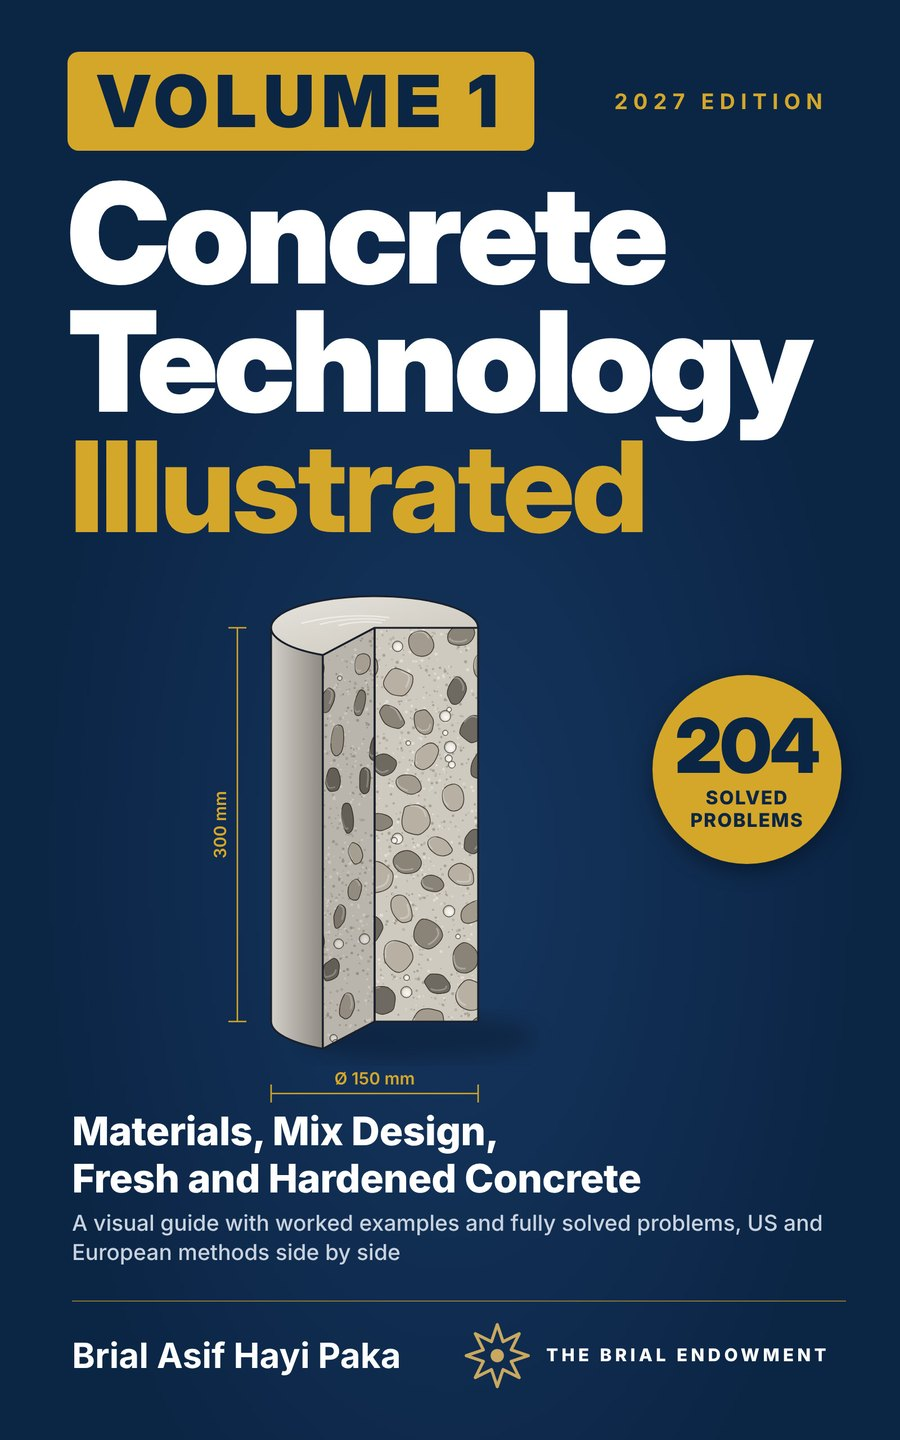
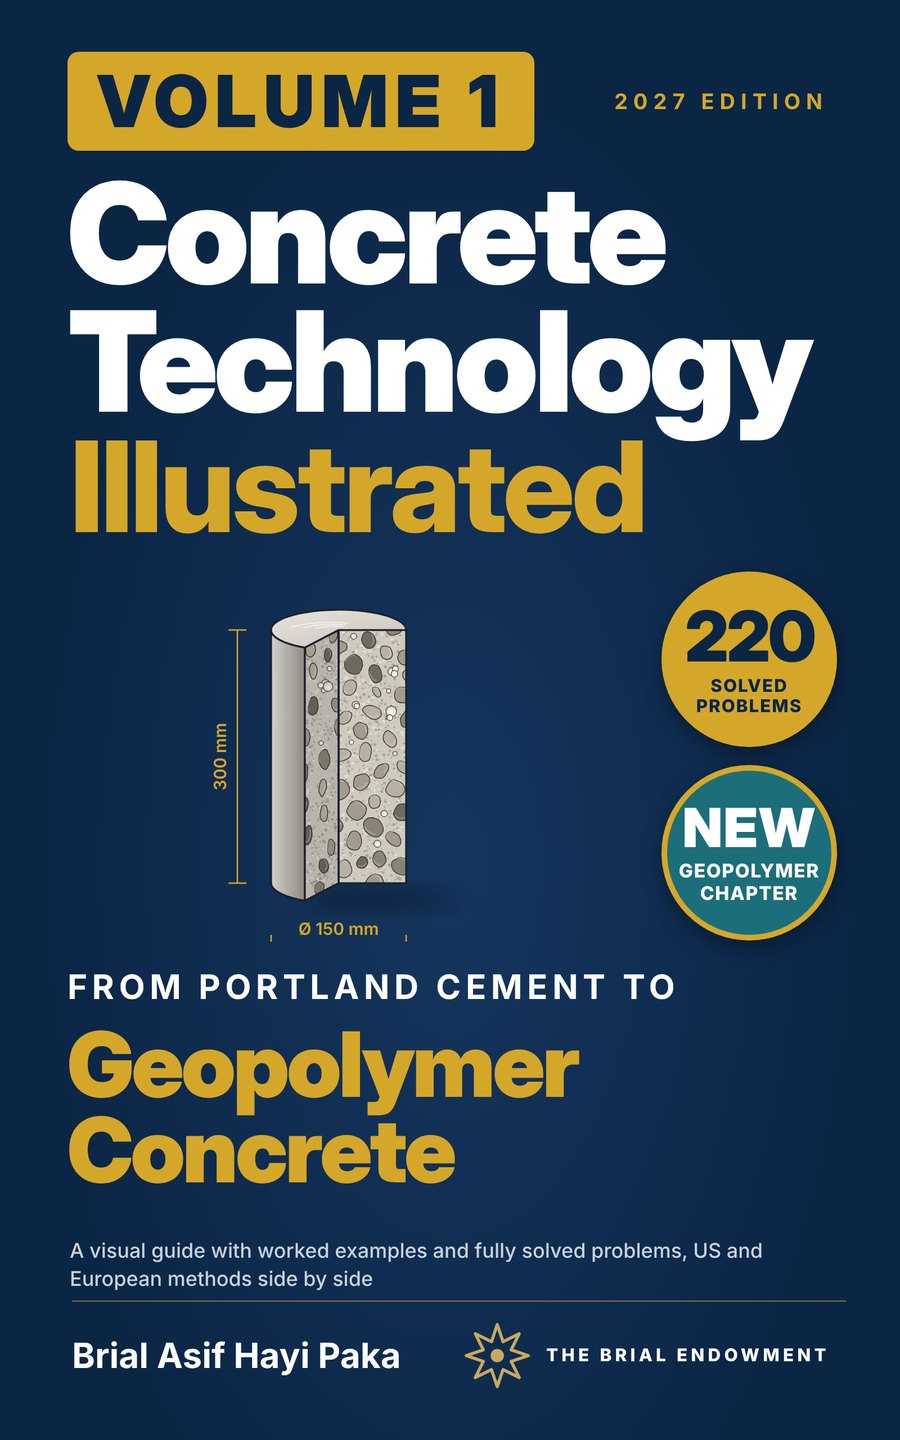
Library: CTI Vol. 1 card updated to the geopolymer edition (new cover, subtitle, 258/220/56/124)
Claude-Session: https://claude.ai/code/session_01FPv6sMoWpMMz2i7NjHSxov

Changed region(s): [[0.0622, 0.4062, 0.9022, 0.9062], [0.7156, 0.375, 0.9333, 0.6562], [0.2178, 0.5, 0.2489, 0.5938]]

diff --git a/site/store.js b/site/store.js
@@ -158,20 +158,20 @@ window.BrialClipboard = { copy: copyToClipboard };
   const DEFAULT_EBOOKS = [
     {
       id: "cti-vol1", lang: "English", langCode: "EN",
-      title: "Concrete Technology Illustrated", subtitle: "2027 Edition \u00B7 Volume 1: Materials, Mix Design, Fresh and Hardened Concrete",
-      accent: "#C9A961", cover: "/library/cti-vol1-cover.jpg", coverRatio: "1 / 1.6",
+      title: "Concrete Technology Illustrated", subtitle: "2027 Edition \u00B7 Volume 1: From Portland Cement to Geopolymer Concrete",
+      accent: "#C9A961", cover: "/library/cti-vol1-cover.jpg?v=258", coverRatio: "1 / 1.6",
       link: "", links: {},
       getLabel: "Get the book",
       supportNote: "Published by The Brial Endowment: every purchase supports its scholarships and programmes.",
-      desc: "A visual guide to concrete materials, mix design, and fresh and hardened concrete. Every idea is drawn before it is calculated, every method is worked one numbered step at a time in SI units with US values in brackets, and US (ACI, ASTM) and European (EN 206, BRE) methods sit side by side. Volume 2 is coming soon.",
+      desc: "A visual guide that takes you from Portland cement to geopolymer concrete: the materials, two complete mix design methods, fresh and hardened concrete, and a full chapter on geopolymer and alkali-activated concrete. Every idea is drawn before it is calculated, every method is worked one numbered step at a time in SI units with US values in brackets, and US (ACI, ASTM) and European (EN 206, BRE) methods sit side by side. Volume 2 is coming soon.",
       points: [
         "Two complete mix design methods: ACI absolute volume and EN 206 with BRE (DoE)",
-        "204 problems in three levels, every one fully solved at the back",
-        "112 figures and 112 tables that show each idea before the numbers",
-        "Formula sheet, glossary, standards list and a 447 entry index",
+        "A full chapter on geopolymer and alkali-activated concrete",
+        "220 problems in three levels, every one fully solved at the back",
+        "124 figures and 123 tables that show each idea before the numbers",
       ],
       featured: true, badge: "New \u00B7 Flagship title",
-      stats: [["234", "pages"], ["204", "solved problems"], ["53", "worked examples"], ["112", "figures"]],
+      stats: [["258", "pages"], ["220", "solved problems"], ["56", "worked examples"], ["124", "figures"]],
       tool: { label: "CTI Mix Design Calculator", url: "/calculator", desc: "The free companion to this book: required strength, ACI and BRE mix design, moisture correction and EN 206 checks, step by step with the book's own tables and rounding." },
     },
     {

diff --git a/site/donate.html b/site/donate.html
@@ -763,7 +763,7 @@ button:focus-visible, a:focus-visible, [role="button"]:focus-visible {
 <script src="/vendor/supabase.js?v=96277ec0"></script>
 <script src="/supabase-client.js?v=e8e062c0"></script>
 <script src="/file-store.js?v=a35e2917"></script>
-<script src="/store.js?v=777292d0"></script>
+<script src="/store.js?v=5d867954"></script>
 <script>
 if ("serviceWorker" in navigator && location.protocol === "https:" && /(brialendowment\.org|netlify\.app|pages\.dev)$/.test(location.hostname)) {
   var reg = function () { navigator.serviceWorker.register("/sw.js").catch(function () {}); }; if (document.readyState === "complete") reg(); else addEventListener("load", reg);

diff --git a/site/ebooks.html b/site/ebooks.html
@@ -763,7 +763,7 @@ button:focus-visible, a:focus-visible, [role="button"]:focus-visible {
 <script src="/vendor/supabase.js?v=96277ec0"></script>
 <script src="/supabase-client.js?v=e8e062c0"></script>
 <script src="/file-store.js?v=a35e2917"></script>
-<script src="/store.js?v=777292d0"></script>
+<script src="/store.js?v=5d867954"></script>
 <script>
 if ("serviceWorker" in navigator && location.protocol === "https:" && /(brialendowment\.org|netlify\.app|pages\.dev)$/.test(location.hostname)) {
   var reg = function () { navigator.serviceWorker.register("/sw.js").catch(function () {}); }; if (document.readyState === "complete") reg(); else addEventListener("load", reg);

diff --git a/site/foodclothing.html b/site/foodclothing.html
@@ -763,7 +763,7 @@ button:focus-visible, a:focus-visible, [role="button"]:focus-visible {
 <script src="/vendor/supabase.js?v=96277ec0"></script>
 <script src="/supabase-client.js?v=e8e062c0"></script>
 <script src="/file-store.js?v=a35e2917"></script>
-<script src="/store.js?v=777292d0"></script>
+<script src="/store.js?v=5d867954"></script>
 <script>
 if ("serviceWorker" in navigator && location.protocol === "https:" && /(brialendowment\.org|netlify\.app|pages\.dev)$/.test(location.hostname)) {
   var reg = function () { navigator.serviceWorker.register("/sw.js").catch(function () {}); }; if (document.readyState === "complete") reg(); else addEventListener("load", reg);

diff --git a/site/foodland.html b/site/foodland.html
@@ -763,7 +763,7 @@ button:focus-visible, a:focus-visible, [role="button"]:focus-visible {
 <script src="/vendor/supabase.js?v=96277ec0"></script>
 <script src="/supabase-client.js?v=e8e062c0"></script>
 <script src="/file-store.js?v=a35e2917"></script>
-<script src="/store.js?v=777292d0"></script>
+<script src="/store.js?v=5d867954"></script>
 <script>
 if ("serviceWorker" in navigator && location.protocol === "https:" && /(brialendowment\.org|netlify\.app|pages\.dev)$/.test(location.hostname)) {
   var reg = function () { navigator.serviceWorker.register("/sw.js").catch(function () {}); }; if (document.readyState === "complete") reg(); else addEventListener("load", reg);

diff --git a/site/hospitals.html b/site/hospitals.html
@@ -763,7 +763,7 @@ button:focus-visible, a:focus-visible, [role="button"]:focus-visible {
 <script src="/vendor/supabase.js?v=96277ec0"></script>
 <script src="/supabase-client.js?v=e8e062c0"></script>
 <script src="/file-store.js?v=a35e2917"></script>
-<script src="/store.js?v=777292d0"></script>
+<script src="/store.js?v=5d867954"></script>
 <script>
 if ("serviceWorker" in navigator && location.protocol === "https:" && /(brialendowment\.org|netlify\.app|pages\.dev)$/.test(location.hostname)) {
   var reg = function () { navigator.serviceWorker.register("/sw.js").catch(function () {}); }; if (document.readyState === "complete") reg(); else addEventListener("load", reg);

diff --git a/site/index.html b/site/index.html
@@ -763,7 +763,7 @@ button:focus-visible, a:focus-visible, [role="button"]:focus-visible {
 <script src="/vendor/supabase.js?v=96277ec0"></script>
 <script src="/supabase-client.js?v=e8e062c0"></script>
 <script src="/file-store.js?v=a35e2917"></script>
-<script src="/store.js?v=777292d0"></script>
+<script src="/store.js?v=5d867954"></script>
 <script>
 if ("serviceWorker" in navigator && location.protocol === "https:" && /(brialendowment\.org|netlify\.app|pages\.dev)$/.test(location.hostname)) {
   var reg = function () { navigator.serviceWorker.register("/sw.js").catch(function () {}); }; if (document.readyState === "complete") reg(); else addEventListener("load", reg);

diff --git a/site/infra.html b/site/infra.html
@@ -763,7 +763,7 @@ button:focus-visible, a:focus-visible, [role="button"]:focus-visible {
 <script src="/vendor/supabase.js?v=96277ec0"></script>
 <script src="/supabase-client.js?v=e8e062c0"></script>
 <script src="/file-store.js?v=a35e2917"></script>
-<script src="/store.js?v=777292d0"></script>
+<script src="/store.js?v=5d867954"></script>
 <script>
 if ("serviceWorker" in navigator && location.protocol === "https:" && /(brialendowment\.org|netlify\.app|pages\.dev)$/.test(location.hostname)) {
   var reg = function () { navigator.serviceWorker.register("/sw.js").catch(function () {}); }; if (document.readyState === "complete") reg(); else addEventListener("load", reg);

diff --git a/site/livestock.html b/site/livestock.html
@@ -763,7 +763,7 @@ button:focus-visible, a:focus-visible, [role="button"]:focus-visible {
 <script src="/vendor/supabase.js?v=96277ec0"></script>
 <script src="/supabase-client.js?v=e8e062c0"></script>
 <script src="/file-store.js?v=a35e2917"></script>
-<script src="/store.js?v=777292d0"></script>
+<script src="/store.js?v=5d867954"></script>
 <script>
 if ("serviceWorker" in navigator && location.protocol === "https:" && /(brialendowment\.org|netlify\.app|pages\.dev)$/.test(location.hostname)) {
   var reg = function () { navigator.serviceWorker.register("/sw.js").catch(function () {}); }; if (document.readyState === "complete") reg(); else addEventListener("load", reg);

diff --git a/site/proof.html b/site/proof.html
@@ -763,7 +763,7 @@ button:focus-visible, a:focus-visible, [role="button"]:focus-visible {
 <script src="/vendor/supabase.js?v=96277ec0"></script>
 <script src="/supabase-client.js?v=e8e062c0"></script>
 <script src="/file-store.js?v=a35e2917"></script>
-<script src="/store.js?v=777292d0"></script>
+<script src="/store.js?v=5d867954"></script>
 <script>
 if ("serviceWorker" in navigator && location.protocol === "https:" && /(brialendowment\.org|netlify\.app|pages\.dev)$/.test(location.hostname)) {
   var reg = function () { navigator.serviceWorker.register("/sw.js").catch(function () {}); }; if (document.readyState === "complete") reg(); else addEventListener("load", reg);

diff --git a/site/scholars.html b/site/scholars.html
@@ -763,7 +763,7 @@ button:focus-visible, a:focus-visible, [role="button"]:focus-visible {
 <script src="/vendor/supabase.js?v=96277ec0"></script>
 <script src="/supabase-client.js?v=e8e062c0"></script>
 <script src="/file-store.js?v=a35e2917"></script>
-<script src="/store.js?v=777292d0"></script>
+<script src="/store.js?v=5d867954"></script>
 <script>
 if ("serviceWorker" in navigator && location.protocol === "https:" && /(brialendowment\.org|netlify\.app|pages\.dev)$/.test(location.hostname)) {
   var reg = function () { navigator.serviceWorker.register("/sw.js").catch(function () {}); }; if (document.readyState === "complete") reg(); else addEventListener("load", reg);

diff --git a/site/schools.html b/site/schools.html
@@ -763,7 +763,7 @@ button:focus-visible, a:focus-visible, [role="button"]:focus-visible {
 <script src="/vendor/supabase.js?v=96277ec0"></script>
 <script src="/supabase-client.js?v=e8e062c0"></script>
 <script src="/file-store.js?v=a35e2917"></script>
-<script src="/store.js?v=777292d0"></script>
+<script src="/store.js?v=5d867954"></script>
 <script>
 if ("serviceWorker" in navigator && location.protocol === "https:" && /(brialendowment\.org|netlify\.app|pages\.dev)$/.test(location.hostname)) {
   var reg = function () { navigator.serviceWorker.register("/sw.js").catch(function () {}); }; if (document.readyState === "complete") reg(); else addEventListener("load", reg);
